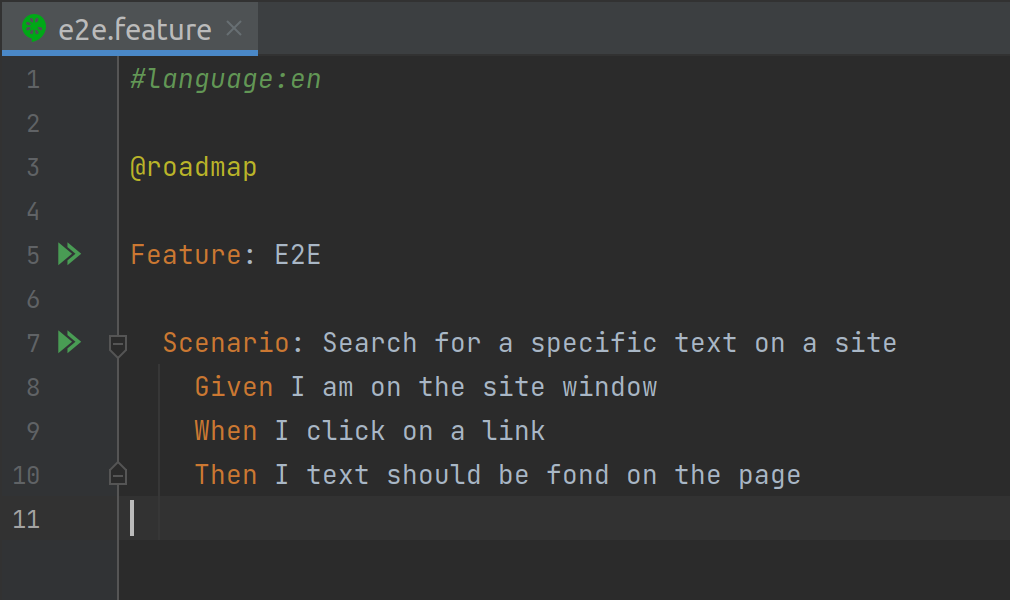
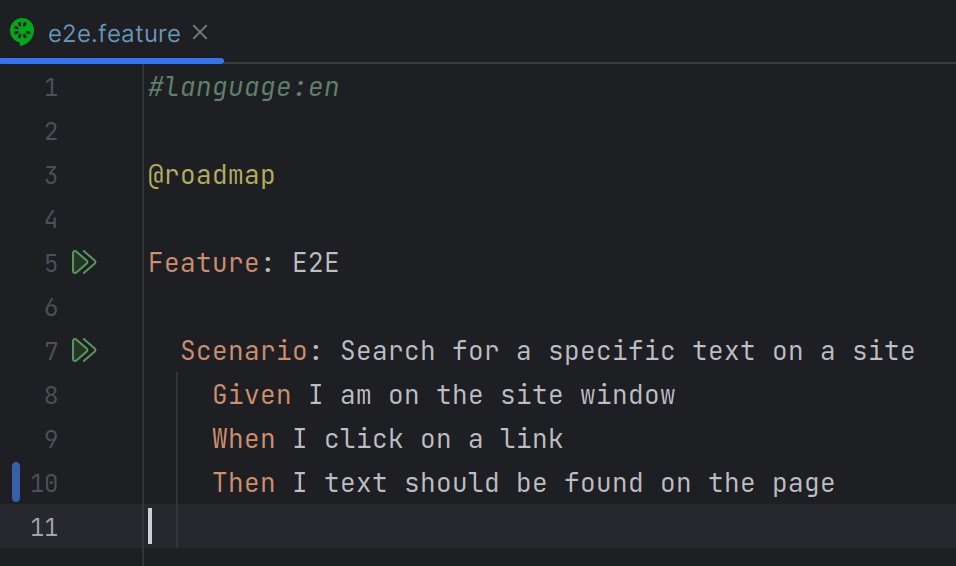
:books: (README.md): Fixing image.

diff --git a/e2e/scripts/steps/e2eSteps.js b/e2e/scripts/steps/e2eSteps.js
@@ -12,6 +12,6 @@ When('I click on a link', async function () {
     await e2ePage.clickOnALink();
 });
 
-Then('I text should be fond on the page', async function () {
+Then('I text should be found on the page', async function () {
     await e2ePage.assertAText();
 });
